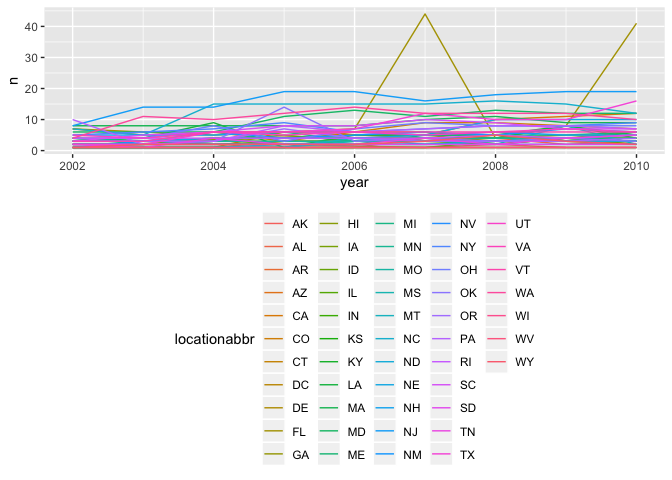
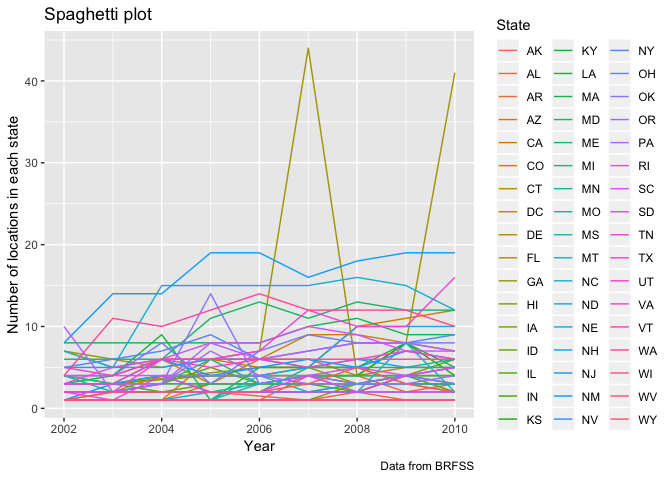
I added my last 2 panel plot and did a bunch of last minute formatting stuff for the rest of it. Good riddance and good night!

diff --git a/p8105_hw3_tm2680.md b/p8105_hw3_tm2680.md
@@ -36,8 +36,14 @@ brfss_data %>%
   group_by(locationabbr, year) %>% 
   summarize(n = n_distinct(geo_location)) %>% 
   ggplot(aes(x = year, y = n, color = locationabbr)) + 
-  geom_line() + 
-  theme(legend.position = "bottom")
+  geom_line() +
+  labs(
+    title = "Spaghetti plot",
+    x = "Year",
+    y = "Number of locations in each state",
+    caption = "Data from BRFSS"
+  ) +
+  scale_color_hue(name = "State")
 ```
 
 ![](p8105_hw3_tm2680_files/figure-markdown_github/brfss_spag_plot-1.png)
@@ -52,15 +58,15 @@ brfss_data %>%
   janitor::clean_names() %>% 
   filter(year == 2002 | year == 2006 | year == 2010) %>% 
   summarize(mean_exc = mean(excellent, na.rm = TRUE),
-            sd_exc = sd(excellent, na.rm = TRUE)) 
+            sd_exc = sd(excellent, na.rm = TRUE)) %>% 
+  knitr::kable()
 ```
 
-    ## # A tibble: 3 x 3
-    ##    year mean_exc sd_exc
-    ##   <int>    <dbl>  <dbl>
-    ## 1  2002     24.0   4.49
-    ## 2  2006     22.5   4.00
-    ## 3  2010     22.7   3.57
+|  year|  mean\_exc|   sd\_exc|
+|-----:|----------:|---------:|
+|  2002|   24.04000|  4.486424|
+|  2006|   22.53333|  4.000833|
+|  2010|   22.70000|  3.567212|
 
 This is my table that shows the mean and standard deviation for the proportion of "Excellent" responses across all locations in New York for the years 2002, 2006, and 2010.
 
@@ -77,27 +83,18 @@ brfss_data %>%
   gather(response, means, mean_exc:mean_poor) %>% 
   ggplot(aes(x = year, y = means, color = locationabbr)) +
   geom_line() + 
-  facet_grid( ~ response)
+  facet_grid( ~ response) +
+  scale_color_hue(name = "State")
 ```
 
 ![](p8105_hw3_tm2680_files/figure-markdown_github/brfss_prop_resp-1.png)
-
-``` r
-  theme(legend.position = "bottom")
-```
-
-    ## List of 1
-    ##  $ legend.position: chr "bottom"
-    ##  - attr(*, "class")= chr [1:2] "theme" "gg"
-    ##  - attr(*, "complete")= logi FALSE
-    ##  - attr(*, "validate")= logi TRUE
 
 Here is my 5-panel plot of distribution of state-level averages of the response types over time.
 
 Problem 2
 =========
 
-The `instacart` dataset contains 1384617 observations and 15 variables. These variables describe orders from Instacart, a grocery service. For instance, `aisle` (e.g. fresh fruits) and `department` (e.g. canned goods) refer to the aisle and department the specific product within that order comes from. Every product from each order is listed as its own observation. For example, `order_id` 1 has 8 observations, related to 8 different products. We assume that `order_dow` = 0 corresponds to Sunday.
+The `instacart` dataset contains 1384617 observations and 15 variables. These variables describe orders from Instacart, a grocery service. For instance, `aisle` (e.g. fresh fruits) and `department` (e.g. canned goods) refer to the aisle and department the specific product within that order comes from. Every product from each order is listed as its own observation. For example, `order_id` 1 has 8 observations, related to 8 different products. We assume that `order_dow` = 6 corresponds to Sunday.
 
 ``` r
 instacart %>% 
@@ -127,21 +124,12 @@ instacart %>%
     y = "Number of items ordered",
     caption = "Data from P8105 Instacart dataset"
   ) +
-  scale_x_continuous(breaks = c(0, 10, 20, 30, 40, 50, 60, 70, 80, 90, 100, 110, 120, 130, 140, 150, 160, 170),
-                     labels = c("0", "10", "20", "30", "40", "50", "60", "70", "80", "90", "100", "110", "120", "130", "140", "150", "160", "170"))
-```
-
-![](p8105_hw3_tm2680_files/figure-markdown_github/insta_item_plot-1.png)
-
-``` r
+  scale_x_continuous(breaks = c(0, 10, 20, 30, 40, 50, 60, 70, 80, 90, 100, 110, 120, 130, 140),
+                     labels = c("0", "10", "20", "30", "40", "50", "60", "70", "80", "90", "100", "110", "120", "130", "140")) +
   theme(legend.position = "bottom")
 ```
 
-    ## List of 1
-    ##  $ legend.position: chr "bottom"
-    ##  - attr(*, "class")= chr [1:2] "theme" "gg"
-    ##  - attr(*, "complete")= logi FALSE
-    ##  - attr(*, "validate")= logi TRUE
+![](p8105_hw3_tm2680_files/figure-markdown_github/insta_item_plot-1.png)
 
 Here is my plot of how many items are getting ordered in each aisle. It is a bar chart to appropriately and legibly show the relationship between aisle and items ordered.
 
@@ -153,16 +141,14 @@ instacart %>%
   summarize(n_prod_ord = n()) %>% 
   filter(min_rank(desc(n_prod_ord)) < 2) %>% 
   select(-n_prod_ord) %>% 
-  as_tibble()
+  knitr::kable()
 ```
 
-    ## # A tibble: 3 x 2
-    ## # Groups:   aisle [3]
-    ##   aisle                      product_name                                 
-    ##   <chr>                      <chr>                                        
-    ## 1 baking ingredients         Light Brown Sugar                            
-    ## 2 dog food care              Snack Sticks Chicken & Rice Recipe Dog Treats
-    ## 3 packaged vegetables fruits Organic Baby Spinach
+| aisle                      | product\_name                                 |
+|:---------------------------|:----------------------------------------------|
+| baking ingredients         | Light Brown Sugar                             |
+| dog food care              | Snack Sticks Chicken & Rice Recipe Dog Treats |
+| packaged vegetables fruits | Organic Baby Spinach                          |
 
 Here is my table that shows the most popular item in each of the following aisles.
 
@@ -176,15 +162,14 @@ instacart %>%
     hour = lubridate::hour(date_decimal(mean_hour)),
     hour = format(strptime(hour, format = "%H"), "%I %p")) %>% 
   select(-order_dow, -mean_hour) %>% 
-  spread(day, hour)
+  spread(day, hour) %>% 
+  knitr::kable()
 ```
 
-    ## # A tibble: 2 x 8
-    ## # Groups:   product_name [2]
-    ##   product_name     Sun   Mon   Tue   Wed   Thu   Fri   Sat  
-    ##   <chr>            <chr> <chr> <chr> <chr> <chr> <chr> <chr>
-    ## 1 Coffee Ice Cream 01 PM 06 AM 01 AM 03 AM 08 AM 07 AM 04 AM
-    ## 2 Pink Lady Apples 12 AM 09 AM 06 AM 06 AM 09 AM 01 AM 04 AM
+| product\_name    | Sun   | Mon   | Tue   | Wed   | Thu   | Fri   | Sat   |
+|:-----------------|:------|:------|:------|:------|:------|:------|:------|
+| Coffee Ice Cream | 01 PM | 06 AM | 01 AM | 03 AM | 08 AM | 07 AM | 04 AM |
+| Pink Lady Apples | 12 AM | 09 AM | 06 AM | 06 AM | 09 AM | 01 AM | 04 AM |
 
 Problem 3
 =========
@@ -195,8 +180,7 @@ The `ny_noaa` dataset contains 2595176 observations and 7 variables. Each observ
 noaa_clean = ny_noaa %>% 
   janitor::clean_names() %>% 
   mutate(tmin = as.numeric(tmin),
-         tmax = as.numeric(tmax),
-         prcp = as.numeric(prcp)) %>% 
+         tmax = as.numeric(tmax)) %>% 
   mutate(tmin = tmin / 10,
          tmax = tmax / 10,
          prcp = prcp / 10) %>% 
@@ -249,3 +233,33 @@ noaa_clean %>%
 ![](p8105_hw3_tm2680_files/figure-markdown_github/noaa_max_plot-1.png)
 
 Here is my plot showing average max temperature across years. Average max temperatures seem higher in July than January, which seems logical. There are some low outliers in both panels.
+
+``` r
+tmax_tmin_p = ggplot(noaa_clean, aes(x = tmin, y = tmax)) +
+  geom_hex() +
+  theme(legend.position = "bottom") +
+  labs(
+    x = "Minimum temperature (Celsius)",
+    y = "Maximum temperature (Celsius)"
+  )
+
+snow_dist_p = noaa_clean %>% 
+  filter(0 < snow & snow < 100) %>% 
+  mutate(year = as.character(year)) %>% 
+  ggplot(aes(x = snow, y = year)) +
+  geom_density_ridges(scale = 0.85) +
+  labs(
+    x = "Snow (mm)",
+    y = "Year"
+  )
+
+(tmax_tmin_p + snow_dist_p)
+```
+
+    ## Warning: Removed 1136276 rows containing non-finite values (stat_binhex).
+
+    ## Picking joint bandwidth of 3.76
+
+![](p8105_hw3_tm2680_files/figure-markdown_github/noaa_tmax_tmin-1.png)
+
+Here is my 2-panel plot. Panel 1 shows a hexplot of `tmax` versus `tmin` with all the data. Panel 2 uses a ridge plot to show the distribution of `snow` between 0 and 100 mm by `year`.
